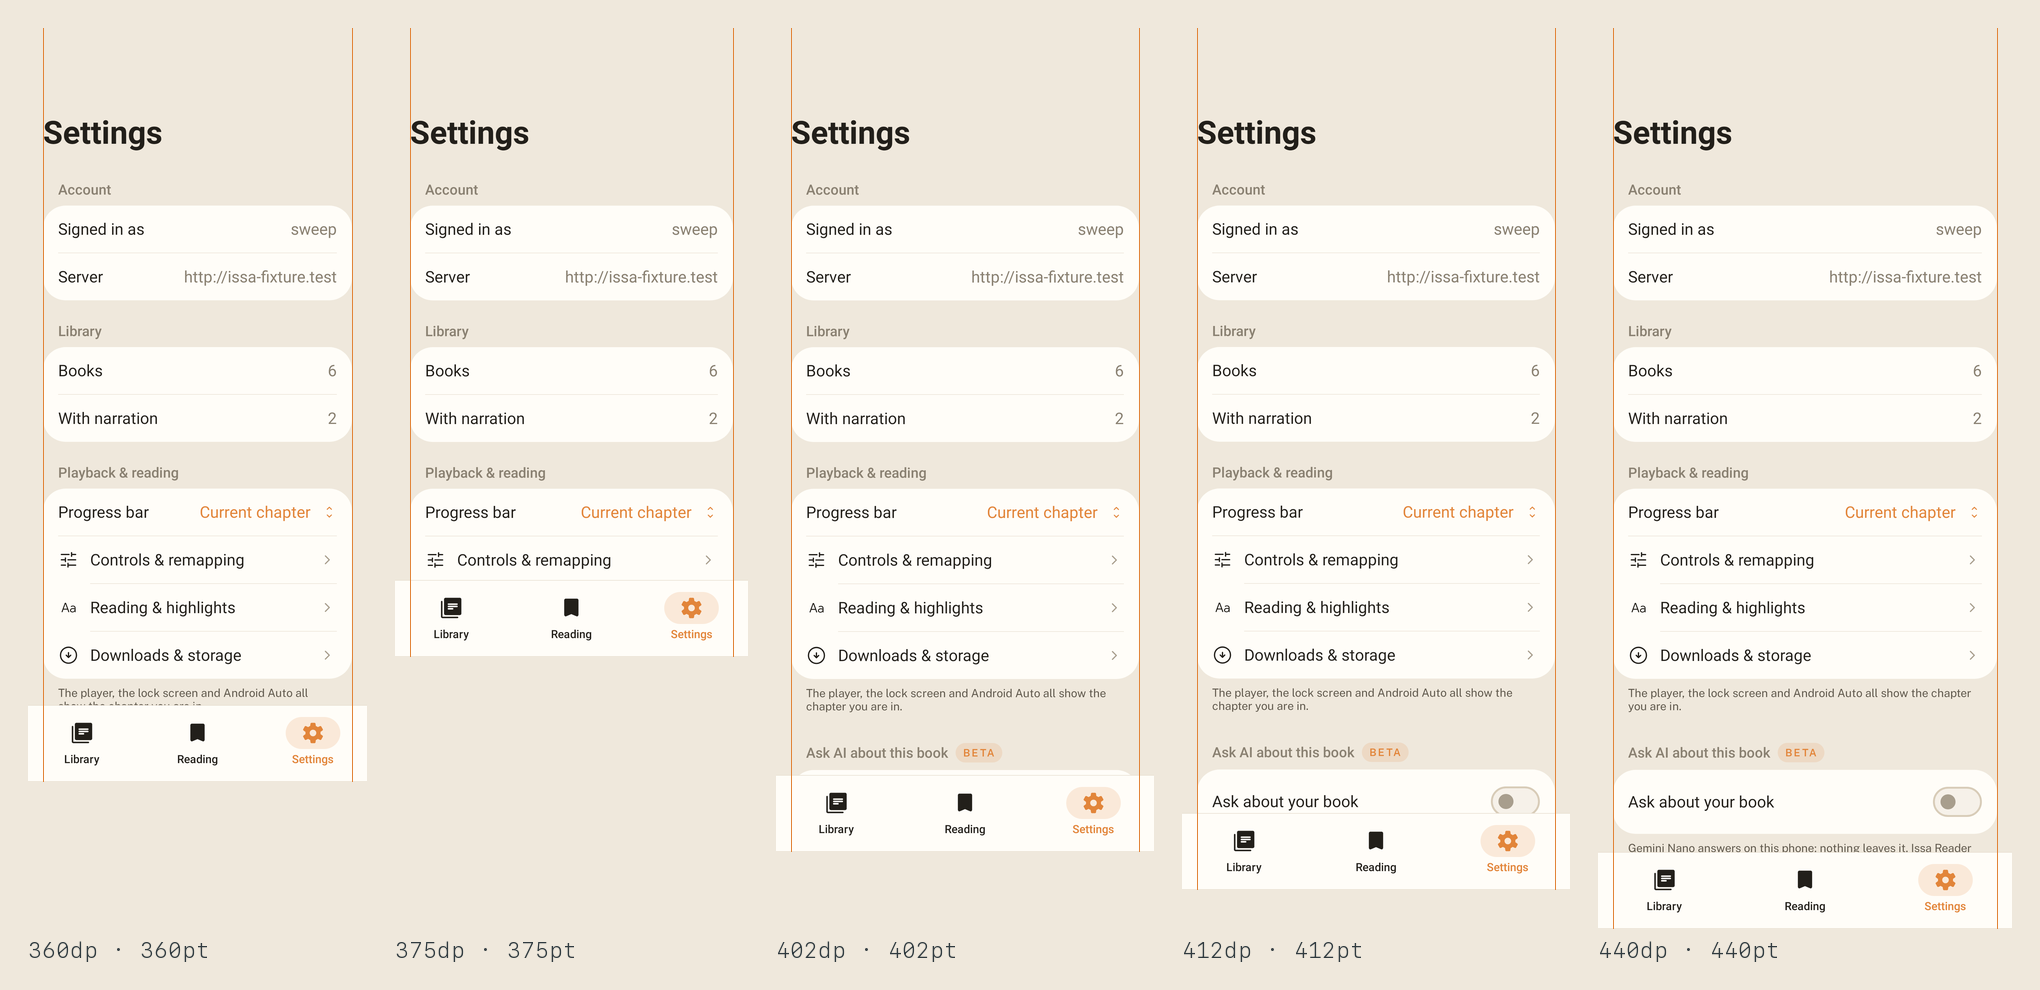
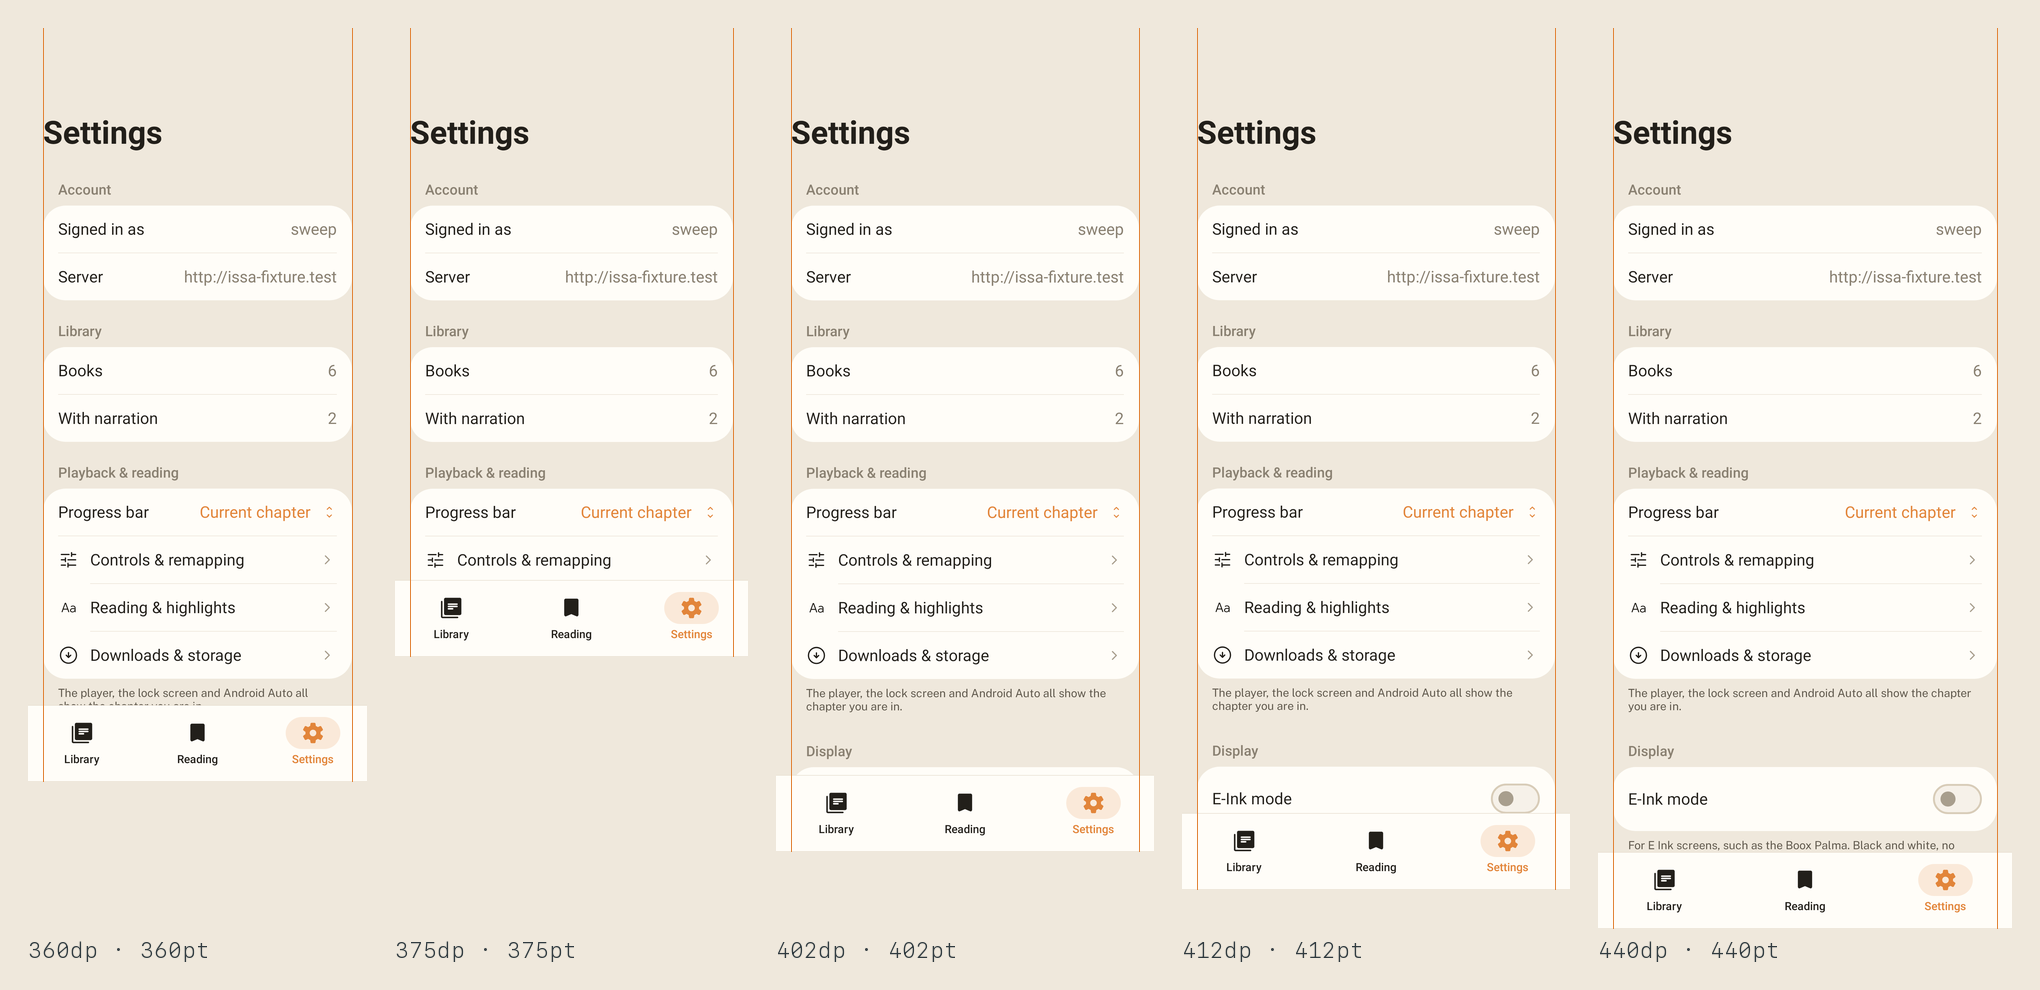
Keep the press's clip to E-Ink mode, and draw the sweep's E-Ink sheets.
A clip added for the inverted press changed the chips' antialiasing with the
mode off, by 6 levels in 255. With it scoped, every sheet but Settings, which
has the new Display section, is pixel for pixel what it was.

Claude-Session: https://claude.ai/code/session_01BxsNDzPnTL9ooqGKGAceu9

diff --git a/Android/ui/src/main/kotlin/com/benjaminissa/issareader/ui/LibraryComponents.kt b/Android/ui/src/main/kotlin/com/benjaminissa/issareader/ui/LibraryComponents.kt
@@ -98,7 +98,7 @@ fun ShelfChip(title: String, count: Int?, isSelected: Boolean, onClick: () -> Un
     Row(
         modifier
             .heightIn(min = if (Palette.isEInk) EInk.target else 34.dp)
-            .clip(CircleShape)
+            .then(if (Palette.isEInk) Modifier.clip(CircleShape) else Modifier)
             .clickable(role = Role.Button, onClick = onClick)
             .background(if (isSelected) Palette.tangerine else Palette.surface, CircleShape)
             .border(if (isSelected) 0.dp else if (Palette.isEInk) EInk.outline else 1.dp, if (isSelected) Color.Transparent else Palette.border, CircleShape)

diff --git a/Android/app/src/main/kotlin/com/benjaminissa/issareader/app/ui/book/BookDetailScreen.kt b/Android/app/src/main/kotlin/com/benjaminissa/issareader/app/ui/book/BookDetailScreen.kt
@@ -493,7 +493,7 @@ private fun PrimaryCapsule(action: BookPrimaryAction, modifier: Modifier = Modif
     Row(
         modifier
             .heightIn(min = if (eink) EInk.target else 0.dp)
-            .clip(shape)
+            .then(if (eink) Modifier.clip(shape) else Modifier)
             .clickable(role = Role.Button, onClick = onClick)
             .background(Palette.tangerine, shape)
             .semantics { contentDescription = action.accessibilityLabel }
